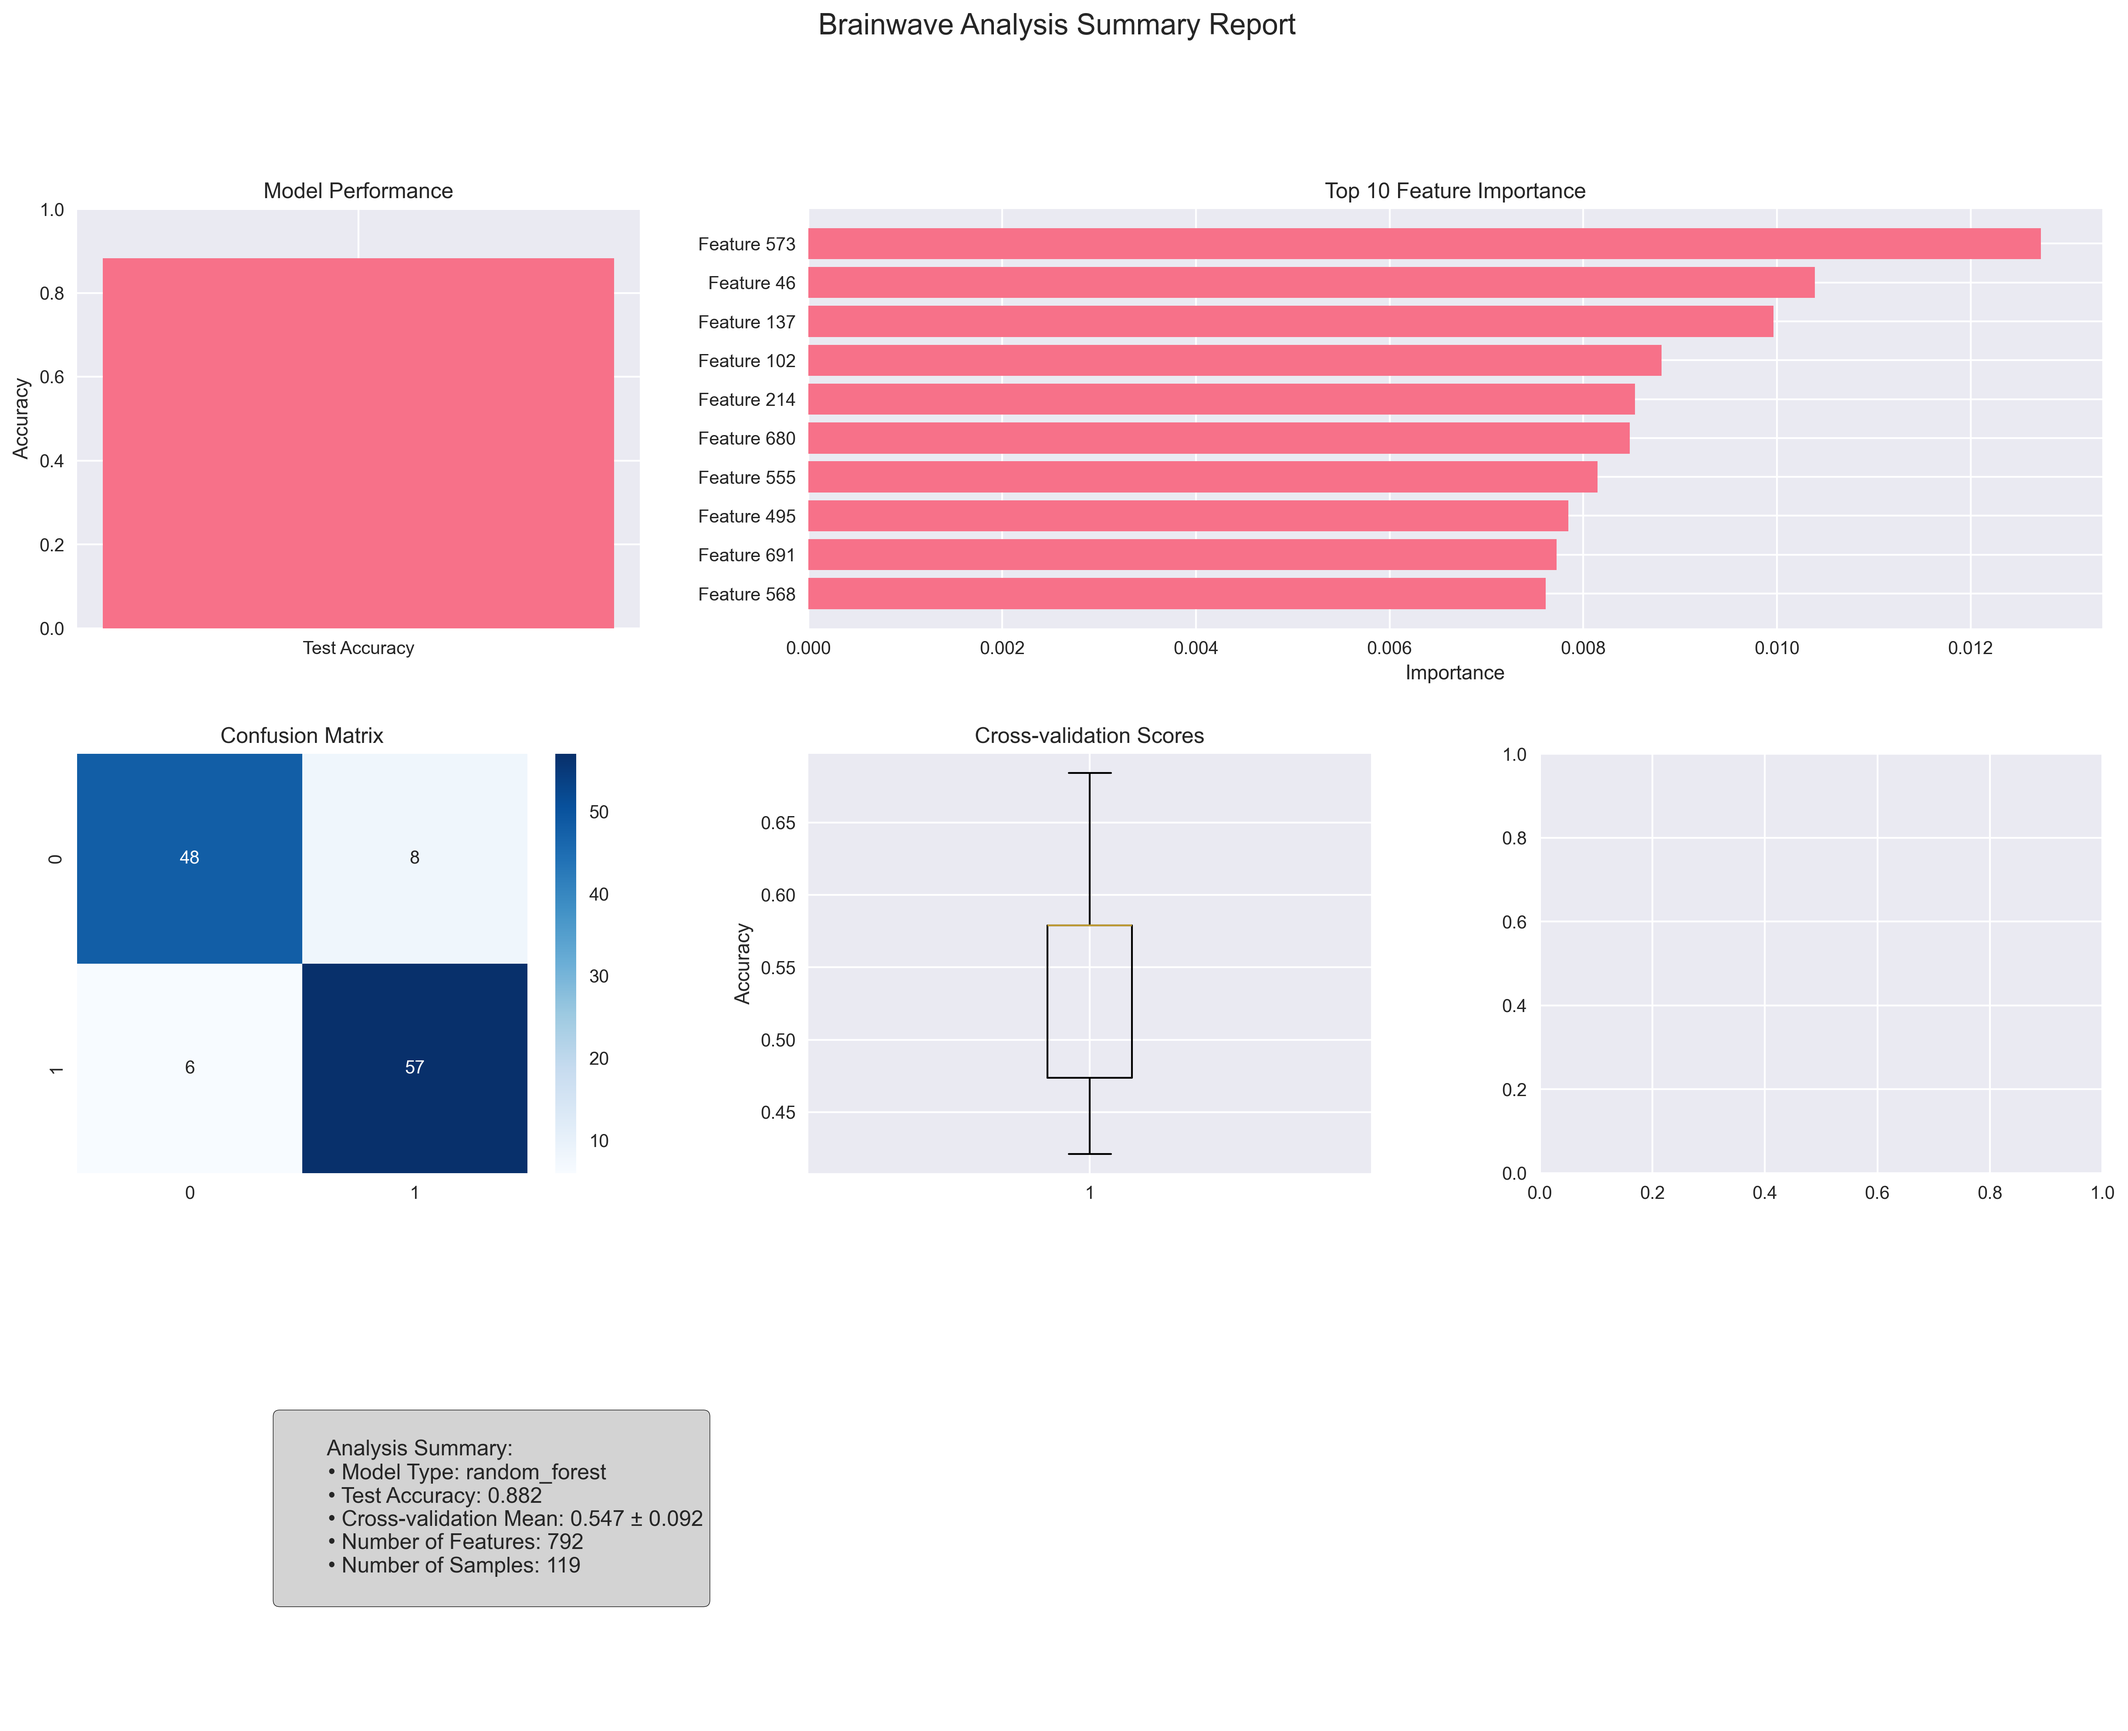
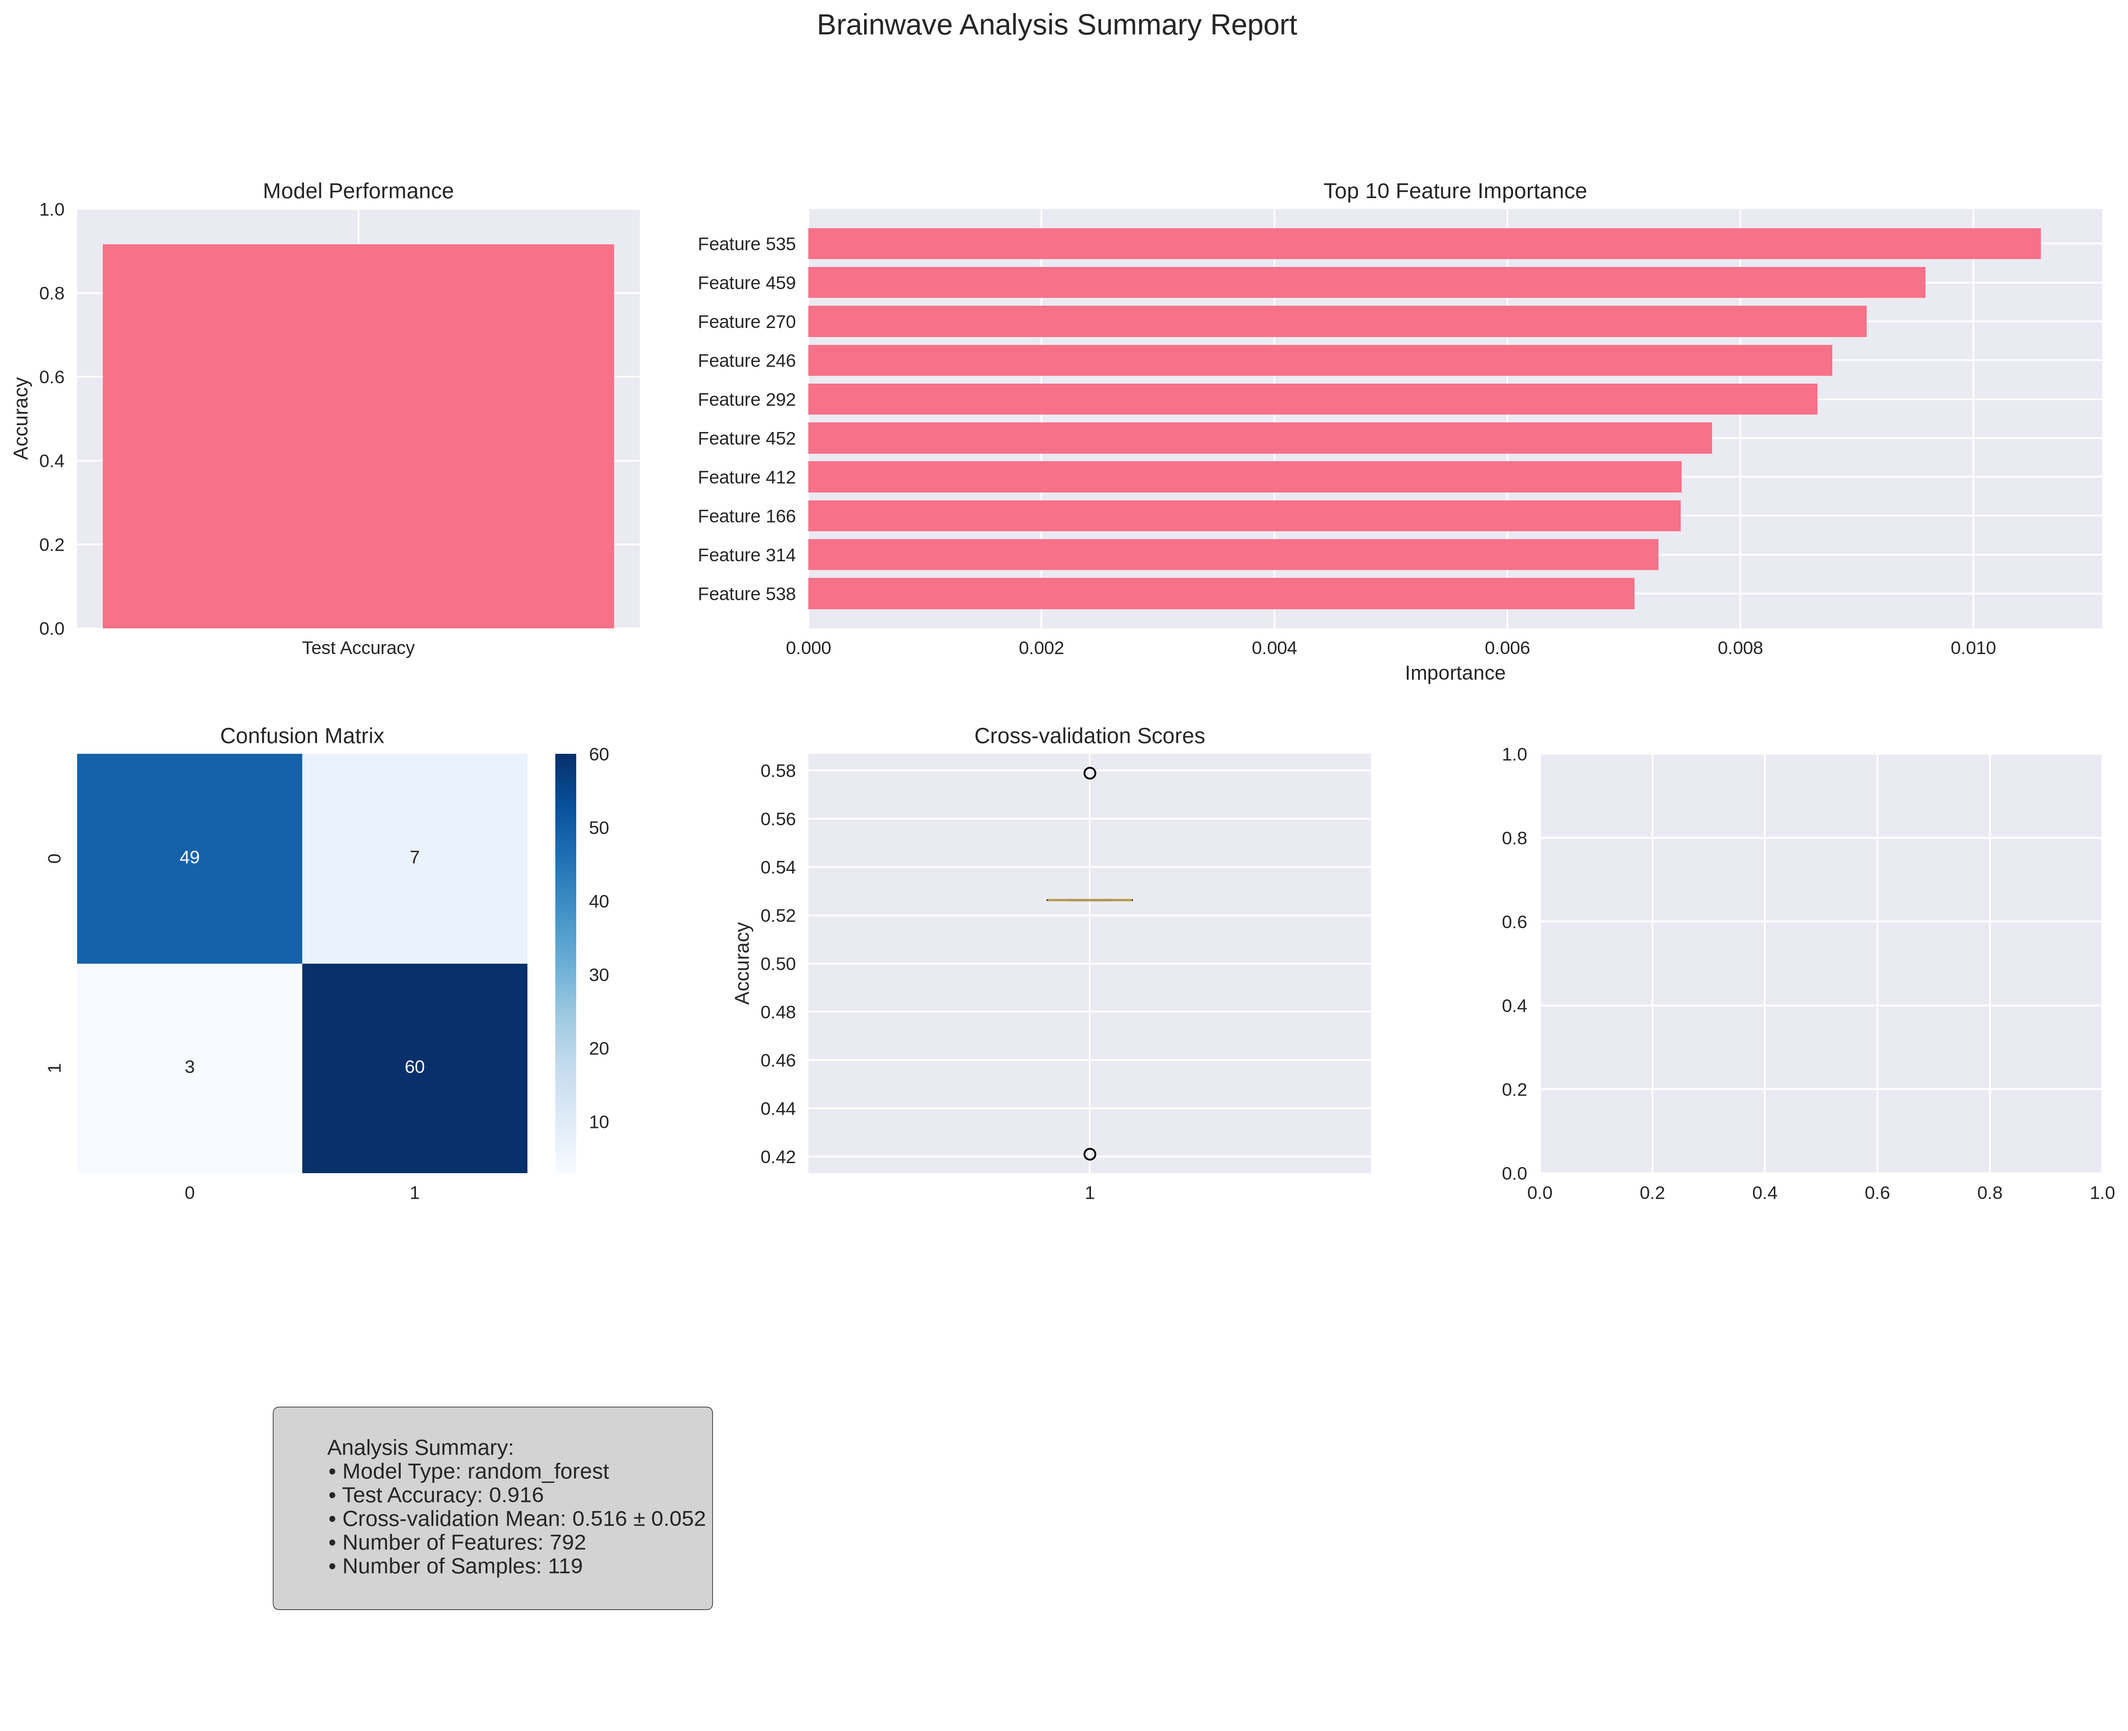
Fix numpy2 trapz break and blank raw/epoch plots, regenerate results, cut em-dashes from README

diff --git a/src/visualization/plots.py b/src/visualization/plots.py
@@ -60,20 +60,18 @@ class BrainwaveVisualizer:
         Returns:
             Matplotlib figure
         """
-        fig, ax = plt.subplots(figsize=(12, 8))
-        
         # Select channels
         if channels:
             picks = mne.pick_channels(raw.ch_names, channels)
         else:
             picks = mne.pick_types(raw.info, eeg=True, eog=True)
-        
-        # Plot data
+
+        # raw.plot() opens its own figure, not the one we created above
         if duration:
-            raw.plot(duration=duration, picks=picks, show=False, title=title)
+            fig = raw.plot(duration=duration, picks=picks, show=False, title=title)
         else:
-            raw.plot(picks=picks, show=False, title=title)
-        
+            fig = raw.plot(picks=picks, show=False, title=title)
+
         plt.tight_layout()
         
         if self.save_plots and save_name:
@@ -100,13 +98,12 @@ class BrainwaveVisualizer:
         Returns:
             Matplotlib figure
         """
-        fig, ax = plt.subplots(figsize=(12, 8))
-        
+        # epochs.plot() opens its own figure, not one we create beforehand
         if condition:
-            epochs[condition].plot(show=False, title=f"{title} - {condition}")
+            fig = epochs[condition].plot(show=False, title=f"{title} - {condition}")
         else:
-            epochs.plot(show=False, title=title)
-        
+            fig = epochs.plot(show=False, title=title)
+
         plt.tight_layout()
         
         if self.save_plots and save_name:

diff --git a/src/preprocessing/filters.py b/src/preprocessing/filters.py
@@ -272,7 +272,7 @@ class SignalProcessor:
             for band_name, (low_freq, high_freq) in freq_bands.items():
                 # Find frequency indices
                 freq_mask = (freqs >= low_freq) & (freqs <= high_freq)
-                band_power = np.trapz(psd[freq_mask], freqs[freq_mask])
+                band_power = np.trapezoid(psd[freq_mask], freqs[freq_mask])
                 band_powers.append(band_power)
             
             features.extend(band_powers)

diff --git a/README.md b/README.md
@@ -9,12 +9,12 @@ just reacting to it.
 
 A full pipeline, not just a model:
 
-1. **Data loading** — reads EEG/EOG in FIF, EDF, BDF, EEGLAB, or BrainVision format.
-2. **Preprocessing** — Butterworth bandpass filtering to cut noise, then artifact removal.
-3. **Feature extraction** — statistical, spectral, and temporal features per epoch (792 in
+1. **Data loading**: reads EEG/EOG in FIF, EDF, BDF, EEGLAB, or BrainVision format.
+2. **Preprocessing**: Butterworth bandpass filtering to cut noise, then artifact removal.
+3. **Feature extraction**: statistical, spectral, and temporal features per epoch (792 in
    the current run).
-4. **Classification** — Random Forest, SVM, or a small neural net, swappable via config.
-5. **Evaluation** — held-out test accuracy, k-fold cross-validation, confusion matrix,
+4. **Classification**: Random Forest, SVM, or a small neural net, swappable via config.
+5. **Evaluation**: held-out test accuracy, k-fold cross-validation, confusion matrix,
    feature importance.
 
 I split this into proper modules (`src/data`, `src/preprocessing`, `src/ml`,
@@ -28,15 +28,19 @@ one-off offline analysis.
 
 Random Forest on the current dataset (119 samples, 792 features):
 
+![Raw EEG](plots/raw_eeg_data.png)
+
+![Epoch-averaged EEG](plots/eeg_epochs.png)
+
 ![Confusion matrix](plots/confusion_matrix.png)
 
-- Test accuracy: 0.882
-- 5-fold CV mean: 0.547 ± 0.092
+- Test accuracy: 0.916
+- 5-fold CV mean: 0.516 ± 0.052
 
-That gap between test accuracy and CV mean is real and worth being upfront about — with
-792 features and 119 samples, a single train/test split can look better than the model
-actually generalizes. CV is the more honest number here. More data and feature selection
-would be the obvious next steps before trusting this for anything real-time.
+That gap between test accuracy and CV mean is real and worth being upfront about: with 792
+features and 119 samples, a single train/test split can look better than the model actually
+generalizes. CV is the more honest number here. More data and feature selection would be
+the obvious next steps before trusting this for anything real-time.
 
 ![Feature importance](plots/feature_importance.png)
 
